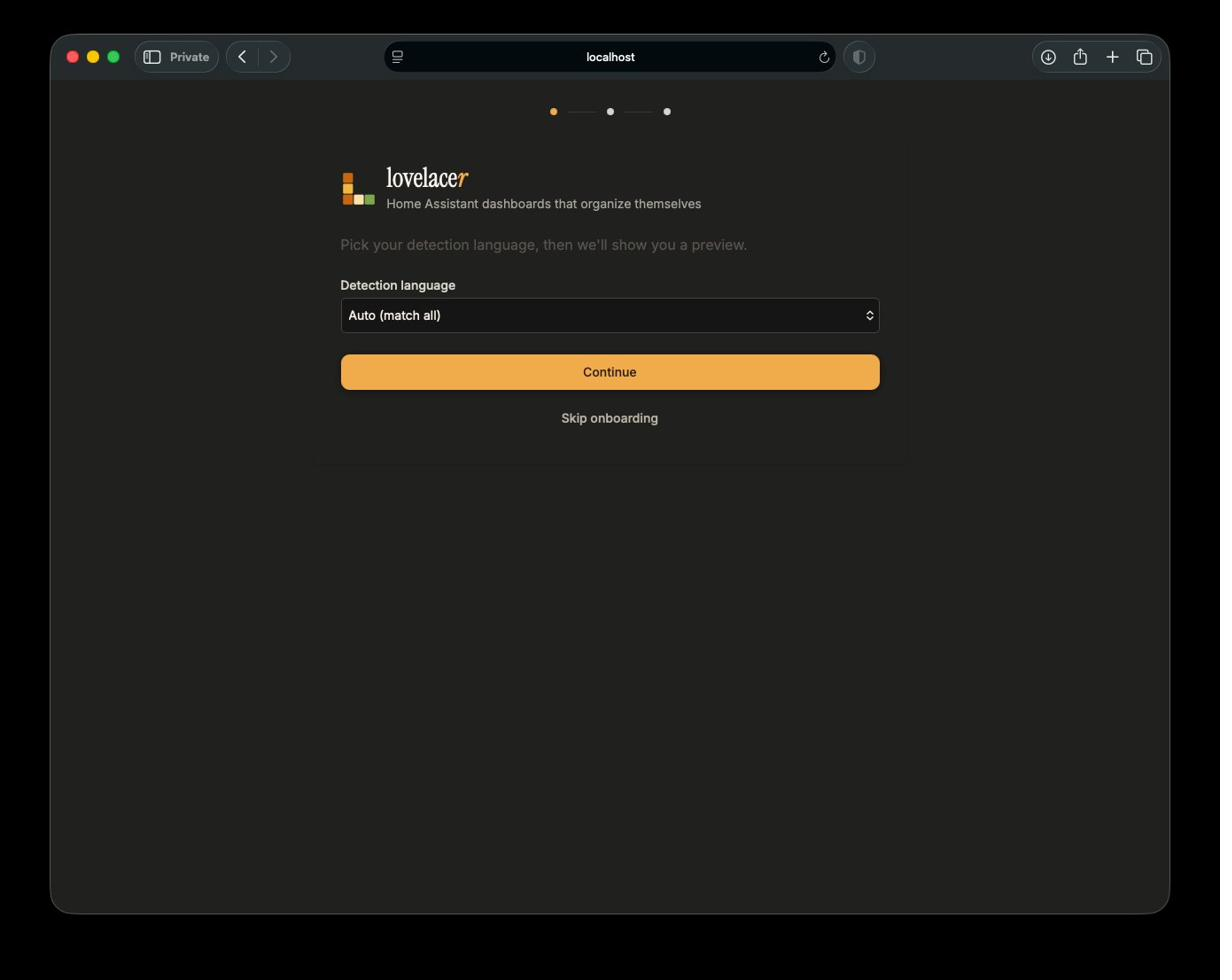
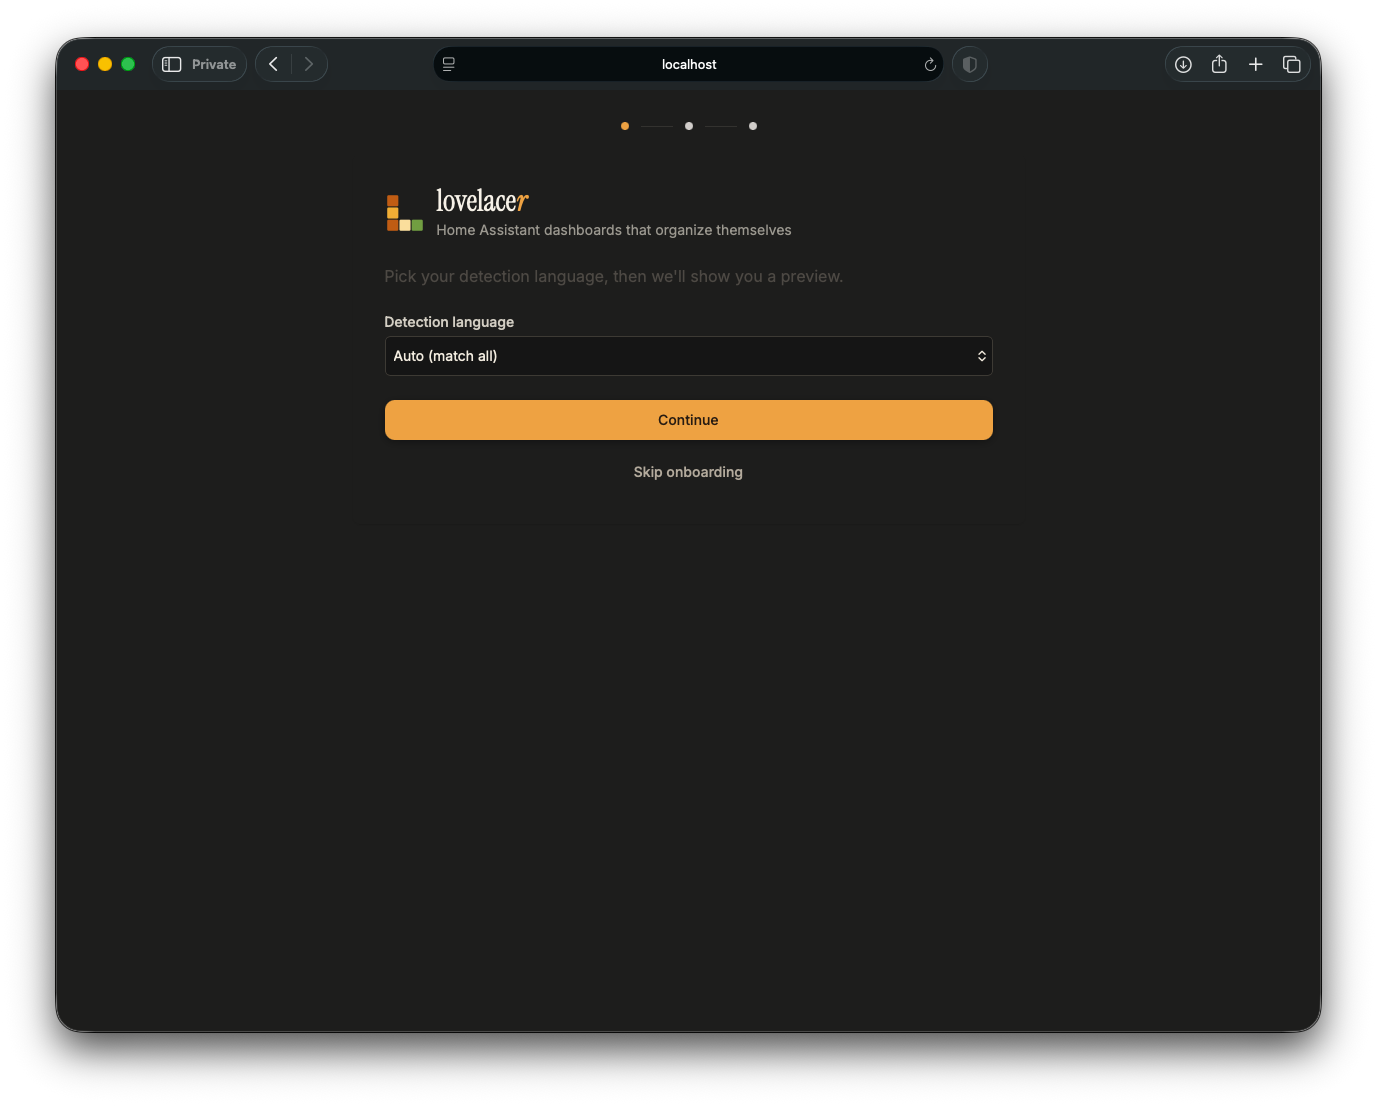
fix(docs): sync themed screenshots on reload

diff --git a/tests/docs/screenshotSources.test.ts b/tests/docs/screenshotSources.test.ts
@@ -1,0 +1,46 @@
+import { describe, expect, it } from 'vitest'
+
+import {
+  getScreenshotMode,
+  getScreenshotSource,
+  type ScreenshotModeSource,
+} from '../../apps/docs/src/.vitepress/theme/components/screenshotSources'
+
+function modeSource(classes: string[], isDark: boolean): ScreenshotModeSource {
+  return {
+    isDark,
+    hasDocumentClass(className) {
+      return classes.includes(className)
+    },
+  }
+}
+
+describe('screenshotSources', () => {
+  it('uses the document dark class when VitePress isDark has not caught up after reload', () => {
+    expect(getScreenshotMode(modeSource(['dark'], false))).toBe('dark')
+  })
+
+  it('uses the document light class over a stale dark VitePress value', () => {
+    expect(getScreenshotMode(modeSource(['light'], true))).toBe('light')
+  })
+
+  it('falls back to the VitePress value when no document class is available', () => {
+    expect(getScreenshotMode(modeSource([], true))).toBe('dark')
+    expect(getScreenshotMode(modeSource([], false))).toBe('light')
+  })
+
+  it('builds light, dark, custom dark, and single-source screenshot paths', () => {
+    expect(getScreenshotSource({ name: 'room-list', ext: 'png' }, 'light')).toBe(
+      '/screenshots/room-list-light.png',
+    )
+    expect(getScreenshotSource({ name: 'room-list', ext: 'png' }, 'dark')).toBe(
+      '/screenshots/room-list-dark.png',
+    )
+    expect(getScreenshotSource({ name: 'entity-overrides', darkName: 'room-detail' }, 'dark')).toBe(
+      '/screenshots/room-detail-dark.png',
+    )
+    expect(getScreenshotSource({ name: 'empty-state', singleSource: true }, 'dark')).toBe(
+      '/screenshots/empty-state.png',
+    )
+  })
+})

diff --git a/apps/docs/src/.vitepress/theme/components/ThemedScreenshot.vue b/apps/docs/src/.vitepress/theme/components/ThemedScreenshot.vue
@@ -1,6 +1,12 @@
 <script setup lang="ts">
-import { computed } from 'vue'
+import { computed, onBeforeUnmount, onMounted, ref, watch } from 'vue'
 import { useData } from 'vitepress'
+import {
+  getScreenshotMode,
+  getScreenshotSource,
+  type ScreenshotMode,
+  type ScreenshotModeSource,
+} from './screenshotSources'
 
 interface Props {
   name: string
@@ -22,16 +28,46 @@ const props = withDefaults(defineProps<Props>(), {
 
 const { isDark } = useData()
 
+const mode = ref<ScreenshotMode>(isDark.value ? 'dark' : 'light')
+
+function syncMode() {
+  const source: ScreenshotModeSource = { isDark: isDark.value }
+
+  if (typeof document !== 'undefined') {
+    source.hasDocumentClass = (className) => document.documentElement.classList.contains(className)
+  }
+
+  mode.value = getScreenshotMode(source)
+}
+
+let themeObserver: MutationObserver | undefined
+
+watch(isDark, syncMode, { immediate: true })
+
+onMounted(() => {
+  syncMode()
+
+  themeObserver = new MutationObserver(syncMode)
+  themeObserver.observe(document.documentElement, {
+    attributeFilter: ['class'],
+    attributes: true,
+  })
+})
+
+onBeforeUnmount(() => {
+  themeObserver?.disconnect()
+})
+
 const src = computed(() => {
-  if (props.singleSource) {
-    return `/screenshots/${props.name}.${props.ext}`
-  }
-
-  if (isDark.value) {
-    return `/screenshots/${props.darkName ?? props.name}-dark.${props.ext}`
-  }
-
-  return `/screenshots/${props.name}-light.${props.ext}`
+  return getScreenshotSource(
+    {
+      name: props.name,
+      darkName: props.darkName,
+      ext: props.ext,
+      singleSource: props.singleSource,
+    },
+    mode.value,
+  )
 })
 </script>
 

diff --git a/apps/docs/src/.vitepress/theme/components/screenshotSources.ts b/apps/docs/src/.vitepress/theme/components/screenshotSources.ts
@@ -1,0 +1,42 @@
+export type ScreenshotMode = 'dark' | 'light'
+
+export interface ScreenshotModeSource {
+  isDark: boolean
+  hasDocumentClass?: (className: string) => boolean
+}
+
+export interface ScreenshotSourceOptions {
+  name: string
+  darkName?: string
+  ext?: 'png' | 'jpg' | 'svg' | 'webp'
+  singleSource?: boolean
+}
+
+export function getScreenshotMode(source: ScreenshotModeSource): ScreenshotMode {
+  if (source.hasDocumentClass?.('dark')) {
+    return 'dark'
+  }
+
+  if (source.hasDocumentClass?.('light')) {
+    return 'light'
+  }
+
+  return source.isDark ? 'dark' : 'light'
+}
+
+export function getScreenshotSource(
+  options: ScreenshotSourceOptions,
+  mode: ScreenshotMode,
+): string {
+  const ext = options.ext ?? 'png'
+
+  if (options.singleSource) {
+    return `/screenshots/${options.name}.${ext}`
+  }
+
+  if (mode === 'dark') {
+    return `/screenshots/${options.darkName ?? options.name}-dark.${ext}`
+  }
+
+  return `/screenshots/${options.name}-light.${ext}`
+}

diff --git a/apps/docs/src/.vitepress/theme/components/SectionHowItWorks.vue b/apps/docs/src/.vitepress/theme/components/SectionHowItWorks.vue
@@ -6,9 +6,9 @@ const steps = [
     n: '01',
     title: 'Open Lovelacer in your HA sidebar',
     body: "The add-on installs into Home Assistant and shows up as an ingress entry. No separate auth, no port to expose, no tokens to copy. If you're running HA Core without Supervisor, the standalone Docker image takes a long-lived access token instead.",
-    screenshotName: 'empty-state',
-    singleSource: true,
-    alt: 'Lovelacer empty state inviting the user to click Analyze',
+    screenshotName: 'onboarding-1-language',
+    singleSource: false,
+    alt: 'Lovelacer first-run onboarding screen asking the user to pick a detection language',
   },
   {
     n: '02',

diff --git a/apps/docs/src/.vitepress/theme/styles/overrides.css b/apps/docs/src/.vitepress/theme/styles/overrides.css
@@ -119,15 +119,15 @@
   font-size: 0.875em;
 }
 
-/* Screenshot frame — adds subtle shadow + rounded corners */
+/* Screenshot frame — keep browser-window edges in CSS instead of baking them into image files. */
 .lc-screenshot {
   display: block;
   width: 100%;
   height: auto;
-  border-radius: 10px;
-  border: 1px solid var(--vp-c-border);
+  border-radius: 12px;
+  border: 6px solid #050505;
   box-shadow: 0 12px 32px -8px rgba(44, 44, 42, 0.18);
-  background: var(--vp-c-bg-alt);
+  background: #050505;
 }
 .dark .lc-screenshot {
   box-shadow: 0 12px 32px -8px rgba(0, 0, 0, 0.45);
